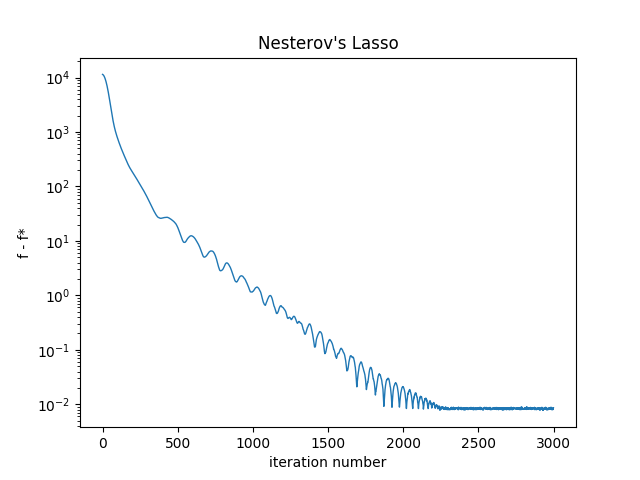
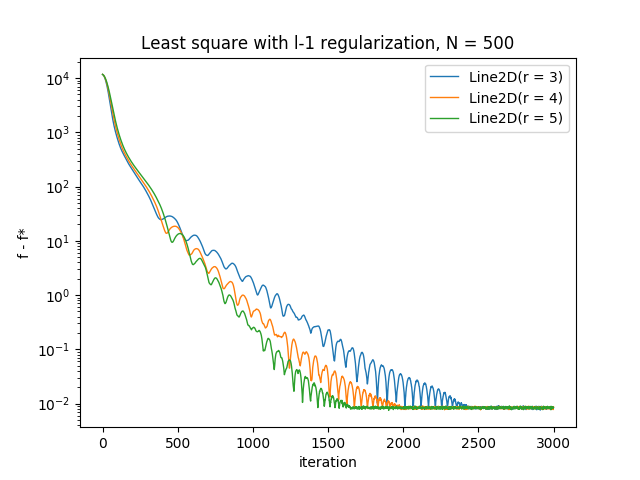
added plots for different rs for Lasso

diff --git a/run_lasso.py b/run_lasso.py
@@ -12,7 +12,6 @@ b = np.random.randn(N, 1) * 0.0003
 # x0 = np.random.randn(500, 1) * 2
 x0 = np.random.uniform(low=-0.5, high=0.5, size=b.shape)
 lamb = 4
-r = 3
 
 ATA = np.dot(A.T, A)
 eigs, _ = np.linalg.eig(ATA)
@@ -52,23 +51,28 @@ def f_star():
 
 if __name__ == "__main__":
     f_opt, x_opt = f_star()
-    # x0 = x_opt + np.random.randn(x_opt.shape[0], x_opt.shape[1]) * 0.0001
-    xs, fs = run_nesterov(f, df, x0, s, r, epsilon=pow(10, -3))
-
-    xs = np.array(xs)
     print(f_opt)
-    fs = np.array(fs) - f_opt
-    t = np.arange(len(xs))
 
-    k = 0
-    t = t[k:]
-    fs = fs[k:]
+    # x0 = x_opt + np.random.randn(x_opt.shape[0], x_opt.shape[1]) * 0.0001
+
+    rs = [3, 4, 5]
 
     plt.figure()
+
+    lines = []
     plt.yscale('log',basey=10) 
-    plt.plot(t, fs, linewidth=1)
-    plt.xlabel("iteration number")
+    for i in range(len(rs)):
+        r = rs[i]
+        _, fs = run_nesterov(f, df, x0, s, r, epsilon=pow(10, -3))
+        fs = np.array(fs) - f_opt
+        t = np.arange(len(fs))
+        line, = plt.plot(t, fs, linewidth=1, label="r = {}".format(r))
+        lines.append(line)
+
+    plt.legend(lines)
+    # plt.yscale('log',basey=10) 
+    plt.xlabel("iteration")
     plt.ylabel("f - f*")
-    plt.title("Nesterov's Lasso")
+    plt.title("Least square with l-1 regularization, N = {}".format(N))
     plt.savefig("plots/Lasso_N_{}.png".format(N))
     plt.show()
